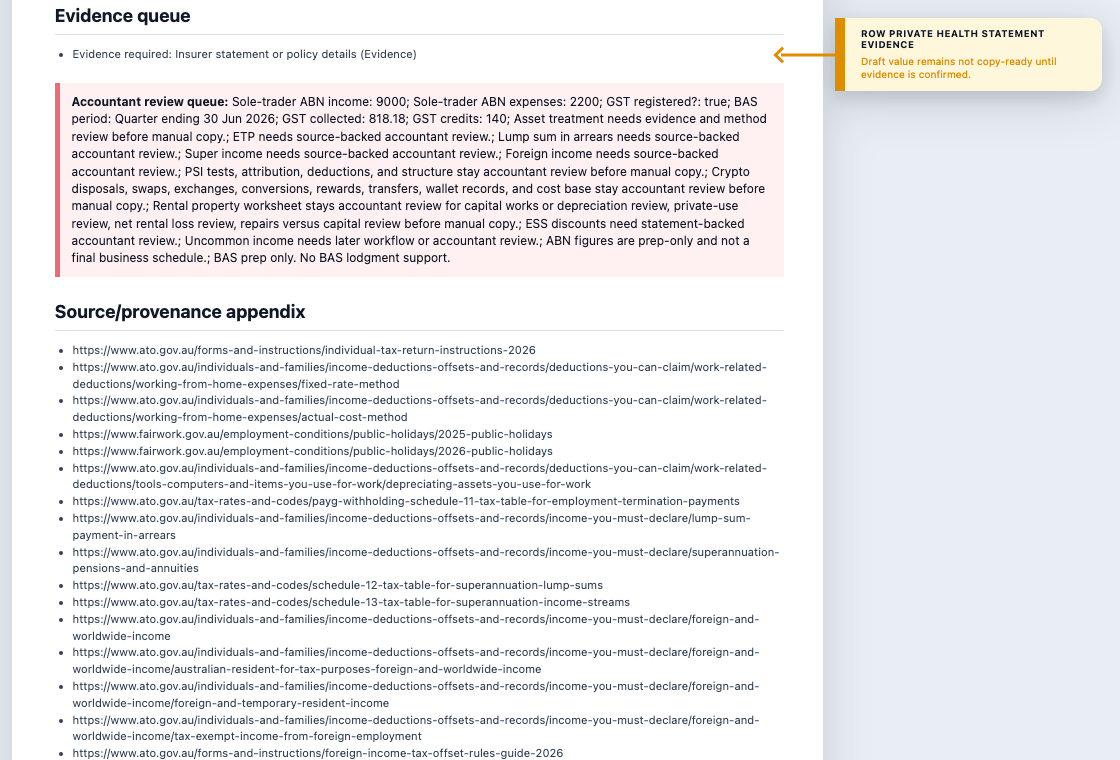
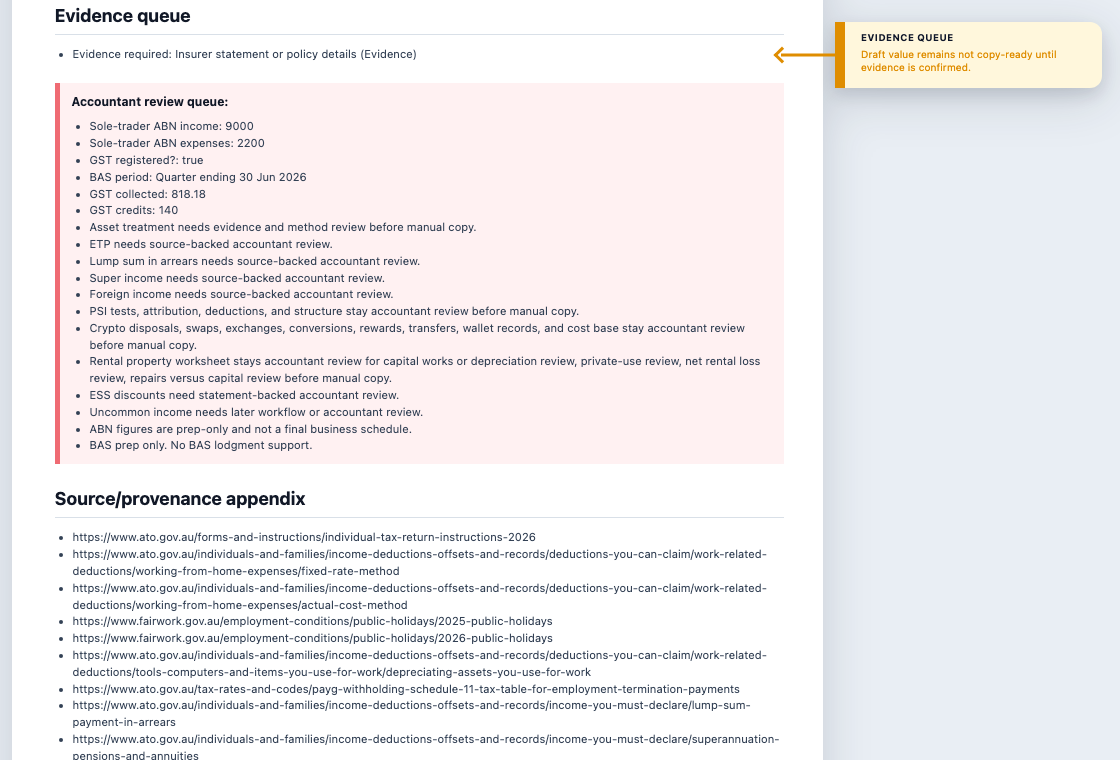
fix: improve guide review queue

Changed region(s): [[0.0312, 0.1211, 0.6875, 1.0], [0.75, 0.0, 0.9688, 0.1211]]

diff --git a/scripts/taxmate_taxpack.py b/scripts/taxmate_taxpack.py
@@ -367,7 +367,6 @@ def render_html(data: GuideData) -> str:
         for item, _row_index in tab_items
         if effective_status_kind(item) == "review" or effective_tab_kind(item) == "review"
     ]
-    review_queue = "; ".join(review_items) if review_items else "No review-only items supplied."
     output = HTML_TEMPLATE.format(
         income_year=esc(data.income_year),
         generated_date=esc(data.generated_date),
@@ -380,7 +379,7 @@ def render_html(data: GuideData) -> str:
         source_appendix=render_source_appendix(all_guide_items(data)) if has_extended_pack(data) else "",
         rows=rows,
         row_tabs=row_tabs,
-        review_queue=esc(review_queue),
+        review_queue=render_review_queue(review_items),
     )
     assert_visible_boundaries(output)
     return output
@@ -422,6 +421,15 @@ def render_queue(title: str, items: List[GuideItem], offset: int) -> str:
         for index, item in enumerate(items, start=1)
     )
     return f"<h2>{esc(title)}</h2><ul class=\"queue-list\">{entries}</ul>"
+
+
+def render_review_queue(items: List[str]) -> str:
+    if not items:
+        body = '<p class="summary-note">No review-only items supplied.</p>'
+    else:
+        body = "".join(f"<li>{esc(item)}</li>" for item in items)
+        body = f'<ul class="review-list">{body}</ul>'
+    return f'<div class="callout review-callout"><b>Accountant review queue:</b>{body}</div>'
 
 
 def queue_item_text(item: GuideItem) -> str:
@@ -520,10 +528,26 @@ def render_item_tab(item: GuideItem, row_index: int) -> str:
     extra += " evidence" if item_tab_kind in {"evidence", "answer"} else ""
     return (
         f'<div class="tab {color}{extra}" data-target="{row_anchor(item, row_index)}">'
-        f"<b>{esc(item.tab_title)}</b>"
+        f"<b>{esc(tab_title(item, row_index))}</b>"
         f"<p>{esc(review_text(item))}</p>"
         "</div>"
     )
+
+
+def tab_title(item: GuideItem, row_index: int) -> str:
+    title = scalar_text(item.tab_title).strip()
+    default_title = f"Row {scalar_text(item.number)} {short_status(effective_status_kind(item))}"
+    if title and title != default_title:
+        return title
+    if 500 <= row_index < 600:
+        return "Evidence queue"
+    if 400 <= row_index < 500:
+        return "Missing facts queue"
+    if 300 <= row_index < 400:
+        return "BAS worksheet"
+    if 200 <= row_index < 300:
+        return "ABN prep section"
+    return title or default_title
 
 
 def review_text(item: GuideItem) -> str:
@@ -617,7 +641,7 @@ HTML_TEMPLATE = """<!doctype html>
 <meta name="viewport" content="width=device-width,initial-scale=1">
 <title>Self-prepared ATO-aligned Guide</title>
 <style>
-:root{{--bg:#e9eef4;--ink:#111827;--muted:#64748b;--line:#d9e0e8;--red:#ef6b73;--blue:#6495ed;--green:#53c987;--yellow:#f2b84b;--grey:#94a3b8}}*{{box-sizing:border-box}}html,body{{overflow-x:hidden}}body{{margin:0;background:var(--bg);color:var(--ink);font-family:Inter,ui-sans-serif,system-ui,-apple-system,BlinkMacSystemFont,"Segoe UI",sans-serif}}.toolbar{{padding:12px 18px;background:#111827;color:#fff;display:flex;gap:12px;align-items:center;box-shadow:0 2px 8px rgba(0,0,0,.18);position:sticky;top:0;z-index:20}}.toolbar strong{{font-size:14px}}.toolbar span{{font-size:12px;color:#cbd5e1;margin-right:auto}}.toolbar button{{border:1px solid #475569;background:#1f2937;color:#fff;border-radius:6px;padding:6px 10px;font-size:11px;font-weight:700;cursor:pointer}}.toolbar button:hover{{background:#374151}}body.hide-tabs .tab{{display:none}}body.only-review .tab:not(.review){{opacity:.18;filter:grayscale(1)}}body.only-evidence .tab:not(.evidence){{opacity:.18;filter:grayscale(1)}}.book{{width:min(1120px,calc(100vw - 24px));margin:18px auto 50px;display:grid;gap:30px}}.spread{{display:grid;grid-template-columns:minmax(0,74%) minmax(190px,26%);align-items:start;position:relative;filter:drop-shadow(0 10px 24px rgba(15,23,42,.16))}}.page{{background:#fff;min-height:1088px;padding:clamp(24px,3.4vw,42px) clamp(24px,3.5vw,48px) 36px clamp(28px,3.8vw,52px);position:relative;overflow:visible}}.page.long{{min-height:1320px}}.side{{min-height:1088px;position:relative;background:transparent;overflow:visible}}.watermark{{position:absolute;inset:0;display:flex;align-items:center;justify-content:center;font-size:78px;font-weight:900;letter-spacing:.08em;transform:rotate(-28deg);color:rgba(15,23,42,.045);pointer-events:none}}.header{{display:flex;justify-content:space-between;gap:20px;border-bottom:3px solid #111827;padding-bottom:14px;margin-bottom:24px}}.header h1{{margin:0;font-size:clamp(22px,2.8vw,29px);line-height:1.12}}.meta{{text-align:right;color:var(--muted);font-size:clamp(9px,1vw,12px);line-height:1.55}}.notice{{border:2px solid #111827;background:#f8fafc;padding:14px 16px;margin:12px 0 24px;font-size:clamp(10.5px,1.15vw,13px);line-height:1.45;position:relative}}h2{{font-size:clamp(15px,1.8vw,18px);margin:24px 0 10px;border-bottom:1px solid var(--line);padding-bottom:8px}}.steps{{display:grid;grid-template-columns:repeat(4,1fr);gap:8px;position:relative}}.step{{border:1px solid var(--line);border-radius:6px;padding:12px;min-height:84px;position:relative}}.step b{{font-size:12px}}.step p{{font-size:11px;color:var(--muted);line-height:1.35}}.legend{{display:flex;gap:8px;flex-wrap:wrap}}.legend span{{font-size:10px;padding:5px 8px;border-radius:4px;background:#f8fafc;border-left:7px solid var(--line)}}.legend .b{{border-color:var(--blue)}}.legend .g{{border-color:var(--green)}}.legend .y{{border-color:var(--yellow)}}.legend .r{{border-color:var(--red)}}.legend .x{{border-color:var(--grey)}}.summary-note,.queue-list,.source-list{{font-size:clamp(9px,1vw,12px);color:#64748b;line-height:1.5;position:relative}}.queue-list,.source-list{{padding-left:18px;color:#334155}}.table{{width:100%;max-width:100%;border-collapse:collapse;font-size:9px;table-layout:fixed;margin-bottom:14px}}.table th{{background:#f1f5f9;color:#475569;text-transform:uppercase;font-size:9px;text-align:left;border:1px solid var(--line);padding:8px}}.table td{{border:1px solid var(--line);padding:8px;vertical-align:top;line-height:1.32;position:relative;height:104px;overflow-wrap:normal;word-break:normal}}.table th:nth-child(1),.table td:nth-child(1){{width:5%;text-align:center}}.table th:nth-child(2){{width:14%}}.table th:nth-child(3){{width:13%}}.table th:nth-child(4){{width:17%}}.table th:nth-child(5){{width:22%}}.table th:nth-child(6){{width:17%}}.table th:nth-child(7){{width:12%}}.extraction-table th:nth-child(2),.extraction-table td:nth-child(2){{width:16%}}.extraction-table th:nth-child(8),.extraction-table td:nth-child(8){{width:12%}}.provenance{{font-size:7.5px;color:#475569;line-height:1.28;overflow-wrap:anywhere!important;word-break:break-word!important}}.source-url{{display:block;overflow-wrap:anywhere}}.checked-at{{display:block;margin-top:4px;color:#64748b;font-weight:700}}.status{{display:inline-block;min-width:86px;padding:4px 5px;border-radius:5px;font-weight:800;font-size:7.5px;white-space:normal;word-break:normal;overflow-wrap:normal;text-align:center;line-height:1.15}}.gap{{background:#fde68a}}.review-badge{{background:#fecaca}}.used{{background:#bbf7d0}}.label{{background:#dbeafe}}.skipped{{background:#e2e8f0}}.callout{{margin-top:20px;border-left:5px solid var(--red);background:#fff1f2;padding:10px 12px;font-size:12px;line-height:1.45;position:relative}}.footer{{position:absolute;left:52px;right:48px;bottom:22px;border-top:1px solid var(--line);padding-top:8px;color:#94a3b8;font-size:10px;display:flex;justify-content:space-between}}.tab{{position:absolute;left:12px;width:calc(100% - 18px);min-height:66px;border-radius:0 12px 12px 0;padding:10px 12px 10px 16px;background:#fff;box-shadow:0 7px 16px rgba(15,23,42,.12);border-left:10px solid currentColor;color:#111827;z-index:5;cursor:pointer}}.tab:before{{content:"";position:absolute;left:-64px;top:50%;width:64px;height:3px;background:currentColor;transform:translateY(-50%)}}.tab:after{{content:"";position:absolute;left:-69px;top:50%;width:9px;height:9px;border-left:3px solid currentColor;border-bottom:3px solid currentColor;transform:translateY(-50%) rotate(45deg);background:transparent}}.tab b{{display:block;font-size:clamp(8px,.85vw,10px);text-transform:uppercase;letter-spacing:.04em;margin-bottom:5px;color:#0f172a}}.tab p{{margin:0;font-size:clamp(9px,.9vw,10.5px);line-height:1.3}}.tab.red{{color:#ef5b63;background:#fff0f1}}.tab.blue{{color:#3f82f6;background:#eef5ff}}.tab.green{{color:#24b96d;background:#effbf4}}.tab.yellow{{color:#df8d00;background:#fff7dc}}.tab.grey{{color:#94a3b8;background:#f8fafc}}.spotlight-target{{outline:2px solid rgba(59,130,246,.45)!important;outline-offset:5px;background:rgba(96,165,250,.08)!important;box-shadow:0 0 0 7px rgba(96,165,250,.08)!important;transition:box-shadow .15s ease,outline-color .15s ease}}.tab.active{{box-shadow:0 0 0 3px rgba(17,24,39,.16),0 10px 22px rgba(15,23,42,.22)}}@media print{{.toolbar{{display:none}}body{{background:#fff}}.book{{width:100%;margin:0;gap:0}}.spread{{filter:none;page-break-after:always;grid-template-columns:74% 26%}}.page,.side{{min-height:100vh}}.page.long{{min-height:100vh}}.tab{{box-shadow:none}}a{{color:#111827;text-decoration:none}}}}
+:root{{--bg:#e9eef4;--ink:#111827;--muted:#64748b;--line:#d9e0e8;--red:#ef6b73;--blue:#6495ed;--green:#53c987;--yellow:#f2b84b;--grey:#94a3b8}}*{{box-sizing:border-box}}html,body{{overflow-x:hidden}}body{{margin:0;background:var(--bg);color:var(--ink);font-family:Inter,ui-sans-serif,system-ui,-apple-system,BlinkMacSystemFont,"Segoe UI",sans-serif}}.toolbar{{padding:12px 18px;background:#111827;color:#fff;display:flex;gap:12px;align-items:center;box-shadow:0 2px 8px rgba(0,0,0,.18);position:sticky;top:0;z-index:20}}.toolbar strong{{font-size:14px}}.toolbar span{{font-size:12px;color:#cbd5e1;margin-right:auto}}.toolbar button{{border:1px solid #475569;background:#1f2937;color:#fff;border-radius:6px;padding:6px 10px;font-size:11px;font-weight:700;cursor:pointer}}.toolbar button:hover{{background:#374151}}body.hide-tabs .tab{{display:none}}body.only-review .tab:not(.review){{opacity:.18;filter:grayscale(1)}}body.only-evidence .tab:not(.evidence){{opacity:.18;filter:grayscale(1)}}.book{{width:min(1120px,calc(100vw - 24px));margin:18px auto 50px;display:grid;gap:30px}}.spread{{display:grid;grid-template-columns:minmax(0,74%) minmax(190px,26%);align-items:start;position:relative;filter:drop-shadow(0 10px 24px rgba(15,23,42,.16))}}.page{{background:#fff;min-height:1088px;padding:clamp(24px,3.4vw,42px) clamp(24px,3.5vw,48px) 36px clamp(28px,3.8vw,52px);position:relative;overflow:visible}}.page.long{{min-height:1320px}}.side{{min-height:1088px;position:relative;background:transparent;overflow:visible}}.watermark{{position:absolute;inset:0;display:flex;align-items:center;justify-content:center;font-size:78px;font-weight:900;letter-spacing:.08em;transform:rotate(-28deg);color:rgba(15,23,42,.045);pointer-events:none}}.header{{display:flex;justify-content:space-between;gap:20px;border-bottom:3px solid #111827;padding-bottom:14px;margin-bottom:24px}}.header h1{{margin:0;font-size:clamp(22px,2.8vw,29px);line-height:1.12}}.meta{{text-align:right;color:var(--muted);font-size:clamp(9px,1vw,12px);line-height:1.55}}.notice{{border:2px solid #111827;background:#f8fafc;padding:14px 16px;margin:12px 0 24px;font-size:clamp(10.5px,1.15vw,13px);line-height:1.45;position:relative}}h2{{font-size:clamp(15px,1.8vw,18px);margin:24px 0 10px;border-bottom:1px solid var(--line);padding-bottom:8px}}.steps{{display:grid;grid-template-columns:repeat(4,1fr);gap:8px;position:relative}}.step{{border:1px solid var(--line);border-radius:6px;padding:12px;min-height:84px;position:relative}}.step b{{font-size:12px}}.step p{{font-size:11px;color:var(--muted);line-height:1.35}}.legend{{display:flex;gap:8px;flex-wrap:wrap}}.legend span{{font-size:10px;padding:5px 8px;border-radius:4px;background:#f8fafc;border-left:7px solid var(--line)}}.legend .b{{border-color:var(--blue)}}.legend .g{{border-color:var(--green)}}.legend .y{{border-color:var(--yellow)}}.legend .r{{border-color:var(--red)}}.legend .x{{border-color:var(--grey)}}.summary-note,.queue-list,.source-list,.review-list{{font-size:clamp(9px,1vw,12px);color:#64748b;line-height:1.5;position:relative}}.queue-list,.source-list,.review-list{{padding-left:18px;color:#334155}}.review-list{{margin:8px 0 0}}.table{{width:100%;max-width:100%;border-collapse:collapse;font-size:9px;table-layout:fixed;margin-bottom:14px}}.table th{{background:#f1f5f9;color:#475569;text-transform:uppercase;font-size:9px;text-align:left;border:1px solid var(--line);padding:8px}}.table td{{border:1px solid var(--line);padding:8px;vertical-align:top;line-height:1.32;position:relative;height:104px;overflow-wrap:normal;word-break:normal}}.table th:nth-child(1),.table td:nth-child(1){{width:5%;text-align:center}}.table th:nth-child(2){{width:14%}}.table th:nth-child(3){{width:13%}}.table th:nth-child(4){{width:17%}}.table th:nth-child(5){{width:22%}}.table th:nth-child(6){{width:17%}}.table th:nth-child(7){{width:12%}}.extraction-table th:nth-child(2),.extraction-table td:nth-child(2){{width:16%}}.extraction-table th:nth-child(8),.extraction-table td:nth-child(8){{width:12%}}.provenance{{font-size:7.5px;color:#475569;line-height:1.28;overflow-wrap:anywhere!important;word-break:break-word!important}}.source-url{{display:block;overflow-wrap:anywhere}}.checked-at{{display:block;margin-top:4px;color:#64748b;font-weight:700}}.status{{display:inline-block;min-width:86px;padding:4px 5px;border-radius:5px;font-weight:800;font-size:7.5px;white-space:normal;word-break:normal;overflow-wrap:normal;text-align:center;line-height:1.15}}.gap{{background:#fde68a}}.review-badge{{background:#fecaca}}.used{{background:#bbf7d0}}.label{{background:#dbeafe}}.skipped{{background:#e2e8f0}}.callout{{margin-top:20px;border-left:5px solid var(--red);background:#fff1f2;padding:10px 12px;font-size:12px;line-height:1.45;position:relative}}.footer{{position:absolute;left:52px;right:48px;bottom:22px;border-top:1px solid var(--line);padding-top:8px;color:#94a3b8;font-size:10px;display:flex;justify-content:space-between}}.tab{{position:absolute;left:12px;width:calc(100% - 18px);min-height:66px;border-radius:0 12px 12px 0;padding:10px 12px 10px 16px;background:#fff;box-shadow:0 7px 16px rgba(15,23,42,.12);border-left:10px solid currentColor;color:#111827;z-index:5;cursor:pointer}}.tab:before{{content:"";position:absolute;left:-64px;top:50%;width:64px;height:3px;background:currentColor;transform:translateY(-50%)}}.tab:after{{content:"";position:absolute;left:-69px;top:50%;width:9px;height:9px;border-left:3px solid currentColor;border-bottom:3px solid currentColor;transform:translateY(-50%) rotate(45deg);background:transparent}}.tab b{{display:block;font-size:clamp(8px,.85vw,10px);text-transform:uppercase;letter-spacing:.04em;margin-bottom:5px;color:#0f172a}}.tab p{{margin:0;font-size:clamp(9px,.9vw,10.5px);line-height:1.3}}.tab.red{{color:#ef5b63;background:#fff0f1}}.tab.blue{{color:#3f82f6;background:#eef5ff}}.tab.green{{color:#24b96d;background:#effbf4}}.tab.yellow{{color:#df8d00;background:#fff7dc}}.tab.grey{{color:#94a3b8;background:#f8fafc}}.spotlight-target{{outline:2px solid rgba(59,130,246,.45)!important;outline-offset:5px;background:rgba(96,165,250,.08)!important;box-shadow:0 0 0 7px rgba(96,165,250,.08)!important;transition:box-shadow .15s ease,outline-color .15s ease}}.tab.active{{box-shadow:0 0 0 3px rgba(17,24,39,.16),0 10px 22px rgba(15,23,42,.22)}}@media print{{.toolbar{{display:none}}body{{background:#fff}}.book{{width:100%;margin:0;gap:0}}.spread{{filter:none;page-break-after:always;grid-template-columns:74% 26%}}.page,.side{{min-height:100vh}}.page.long{{min-height:100vh}}.tab{{box-shadow:none}}a{{color:#111827;text-decoration:none}}}}
 </style>
 </head>
 <body>
@@ -655,7 +679,7 @@ HTML_TEMPLATE = """<!doctype html>
 {bas_section}
 {missing_queue}
 {evidence_queue}
-<div class="callout"><b>Accountant review queue:</b> {review_queue}</div>
+{review_queue}
 {source_appendix}
 <div class="footer"><span>Self-prepared custom guide. Not an ATO form. Not fileable.</span><span>Page 2</span></div>
 </article>

diff --git a/scripts/taxmate_validate.py b/scripts/taxmate_validate.py
@@ -2442,7 +2442,8 @@ def taxpack_guide_html_contract() -> bool:
                 and conflicting.tab_kind == "review"
                 and '<span class="status review-badge">Accountant review</span>' in conflicting_body
                 and 'class="tab red review"' in conflicting_body
-                and "<b>Accountant review queue:</b> Conflicting status fields require accountant review." in conflicting_body
+                and '<ul class="review-list">' in conflicting_body
+                and "<li>Conflicting status fields require accountant review.</li>" in conflicting_body
                 and not any(badge in conflicting_body for badge in downgraded_badges)
             ):
                 conflicting_ok = False
@@ -2471,7 +2472,7 @@ def taxpack_guide_html_contract() -> bool:
         if not (
             conflicting.status_kind == "review"
             and conflicting.tab_kind == "review"
-            and "<b>Accountant review queue:</b> One field still requires accountant review." in conflicting_body
+            and "<li>One field still requires accountant review.</li>" in conflicting_body
             and not any(badge in conflicting_body for badge in downgraded_badges)
         ):
             conflicting_ok = False
@@ -2508,7 +2509,7 @@ def taxpack_guide_html_contract() -> bool:
             conflicting.status_kind == "review"
             and conflicting.tab_kind == "review"
             and '<span class="status review-badge">Accountant review</span>' in conflicting_body
-            and "<b>Accountant review queue:</b> Review-like label requires accountant review." in conflicting_body
+            and "<li>Review-like label requires accountant review.</li>" in conflicting_body
             and not any(badge in conflicting_body for badge in downgraded_badges)
         ):
             conflicting_ok = False
@@ -2533,7 +2534,7 @@ def taxpack_guide_html_contract() -> bool:
     )
     blank_review_ok = (
         blank_review.tab_text == "Row R2: Accountant review."
-        and "<b>Accountant review queue:</b> Row R2: Accountant review." in blank_review_body
+        and "<li>Row R2: Accountant review.</li>" in blank_review_body
         and "<p>Row R2: Accountant review.</p>" in blank_review_body
     )
     direct_blank = taxmate_taxpack.GuideItem(
@@ -2559,7 +2560,7 @@ def taxpack_guide_html_contract() -> bool:
         )
     )
     direct_blank_ok = (
-        "<b>Accountant review queue:</b> Row R3: Accountant review." in direct_blank_body
+        "<li>Row R3: Accountant review.</li>" in direct_blank_body
         and "<p>Row R3: Accountant review.</p>" in direct_blank_body
     )
     direct_conflict = taxmate_taxpack.GuideItem(
@@ -2587,7 +2588,7 @@ def taxpack_guide_html_contract() -> bool:
     direct_conflict_ok = (
         '<span class="status review-badge">Accountant review</span>' in direct_conflict_body
         and 'class="tab red review"' in direct_conflict_body
-        and "<b>Accountant review queue:</b> Row R4: Accountant review." in direct_conflict_body
+        and "<li>Row R4: Accountant review.</li>" in direct_conflict_body
     )
     extended_review_body = taxmate_taxpack.render_html(
         taxmate_taxpack.GuideData(
@@ -2670,11 +2671,11 @@ def taxpack_guide_html_contract() -> bool:
         and 'data-target="row-401-MISS-1"' in extended_review_body
         and 'data-anchor="row-501-EVID-1"' in extended_review_body
         and 'data-target="row-501-EVID-1"' in extended_review_body
-        and (
-            "<b>Accountant review queue:</b> ABN review queue text.; BAS review queue text.; "
-            "Missing review queue text.; Evidence review queue text."
-        )
-        in extended_review_body
+        and "<li>ABN review queue text.</li>" in extended_review_body
+        and "<li>BAS review queue text.</li>" in extended_review_body
+        and "<li>Missing review queue text.</li>" in extended_review_body
+        and "<li>Evidence review queue text.</li>" in extended_review_body
+        and "ABN review queue text.; BAS review queue text." not in extended_review_body
     )
     falsey = taxmate_taxpack.guide_item(
         {

diff --git a/tests/test_python_guardrails.py b/tests/test_python_guardrails.py
@@ -7264,6 +7264,8 @@ class IndividualIntakeTests(unittest.TestCase):
         self.assertIn("Source/provenance appendix", body)
         self.assertNotIn("lodgment-ready", body)
         self.assertNotIn("Prepared by " + "TaxMate", body)
+        self.assertIn("<b>Evidence queue</b>", body)
+        self.assertNotIn("<b>Row Private health statement Evidence</b>", body)
 
     def test_extended_review_rows_appear_in_tabs_and_queue(self) -> None:
         answers = taxmate_intake.sample_answers()
@@ -8305,8 +8307,9 @@ class TaxpackGuideTests(unittest.TestCase):
                     self.assertEqual("review", item.tab_kind)
                     self.assertIn("<span class=\"status review-badge\">Accountant review</span>", body)
                     self.assertIn("class=\"tab red review\"", body)
+                    self.assertIn('<ul class="review-list">', body)
                     self.assertIn(
-                        "<b>Accountant review queue:</b> Conflicting status fields require accountant review.",
+                        "<li>Conflicting status fields require accountant review.</li>",
                         body,
                     )
                     for downgraded_badge in downgraded_badges:
@@ -8337,7 +8340,7 @@ class TaxpackGuideTests(unittest.TestCase):
                 )
                 self.assertEqual("review", item.status_kind)
                 self.assertEqual("review", item.tab_kind)
-                self.assertIn("<b>Accountant review queue:</b> One field still requires accountant review.", body)
+                self.assertIn("<li>One field still requires accountant review.</li>", body)
 
         review_like_labels = [
             "Accountant review required",
@@ -8372,7 +8375,7 @@ class TaxpackGuideTests(unittest.TestCase):
                 self.assertEqual("review", item.status_kind)
                 self.assertEqual("review", item.tab_kind)
                 self.assertIn("<span class=\"status review-badge\">Accountant review</span>", body)
-                self.assertIn("<b>Accountant review queue:</b> Review-like label requires accountant review.", body)
+                self.assertIn("<li>Review-like label requires accountant review.</li>", body)
 
         blank_review = taxmate_taxpack.guide_item(
             {
@@ -8394,7 +8397,7 @@ class TaxpackGuideTests(unittest.TestCase):
             )
         )
         self.assertEqual("Row 13: Accountant review.", blank_review.tab_text)
-        self.assertIn("<b>Accountant review queue:</b> Row 13: Accountant review.", body)
+        self.assertIn("<li>Row 13: Accountant review.</li>", body)
         self.assertIn("<p>Row 13: Accountant review.</p>", body)
 
         blank_queue = taxmate_taxpack.GuideItem(
@@ -8445,7 +8448,7 @@ class TaxpackGuideTests(unittest.TestCase):
                 items=[direct_blank],
             )
         )
-        self.assertIn("<b>Accountant review queue:</b> Row 14: Accountant review.", body)
+        self.assertIn("<li>Row 14: Accountant review.</li>", body)
         self.assertIn("<p>Row 14: Accountant review.</p>", body)
 
         direct_conflict = taxmate_taxpack.GuideItem(
@@ -8472,7 +8475,7 @@ class TaxpackGuideTests(unittest.TestCase):
         )
         self.assertIn("<span class=\"status review-badge\">Accountant review</span>", body)
         self.assertIn("class=\"tab red review\"", body)
-        self.assertIn("<b>Accountant review queue:</b> Row 15: Accountant review.", body)
+        self.assertIn("<li>Row 15: Accountant review.</li>", body)
 
     def test_extended_review_rows_appear_in_tabs_and_review_queue(self) -> None:
         missing_review = taxmate_taxpack.guide_item(
@@ -8513,10 +8516,9 @@ class TaxpackGuideTests(unittest.TestCase):
         self.assertIn('data-anchor="row-501-EVID-1"', body)
         self.assertIn("Missing WFH pattern requires accountant review.", body)
         self.assertIn("Evidence gap requires accountant review.", body)
-        self.assertIn(
-            "<b>Accountant review queue:</b> Missing WFH pattern requires accountant review.; Evidence gap requires accountant review.",
-            body,
-        )
+        self.assertIn("<li>Missing WFH pattern requires accountant review.</li>", body)
+        self.assertIn("<li>Evidence gap requires accountant review.</li>", body)
+        self.assertNotIn("Missing WFH pattern requires accountant review.; Evidence gap", body)
 
     def test_guide_canonicalizes_color_status_aliases(self) -> None:
         aliases = {

diff --git a/scripts/taxmate_review_guardrails.py b/scripts/taxmate_review_guardrails.py
@@ -199,6 +199,11 @@ def check_taxpack_output_layer_text(text: str) -> List[Finding]:
         "def effective_tab_kind(",
         "def review_text(",
         "def queue_item_text(",
+        "def render_review_queue(items: List[str])",
+        '<ul class="review-list">',
+        "def tab_title(item: GuideItem, row_index: int)",
+        "return \"Evidence queue\"",
+        "return \"Missing facts queue\"",
         "fallback_tab_text(item.number, effective_status_kind(item))",
         "def row_anchor(item: GuideItem, row_index: int)",
         "render_queue(\"Missing facts queue\", data.missing_facts, 400)",
@@ -230,6 +235,7 @@ def check_taxpack_output_layer_text(text: str) -> List[Finding]:
         '"generated_date":',
         " or \"\"",
         " or ''",
+        "review_queue = \"; \".join",
     ]
     hits = [token for token in forbidden if token in text]
     if hits: